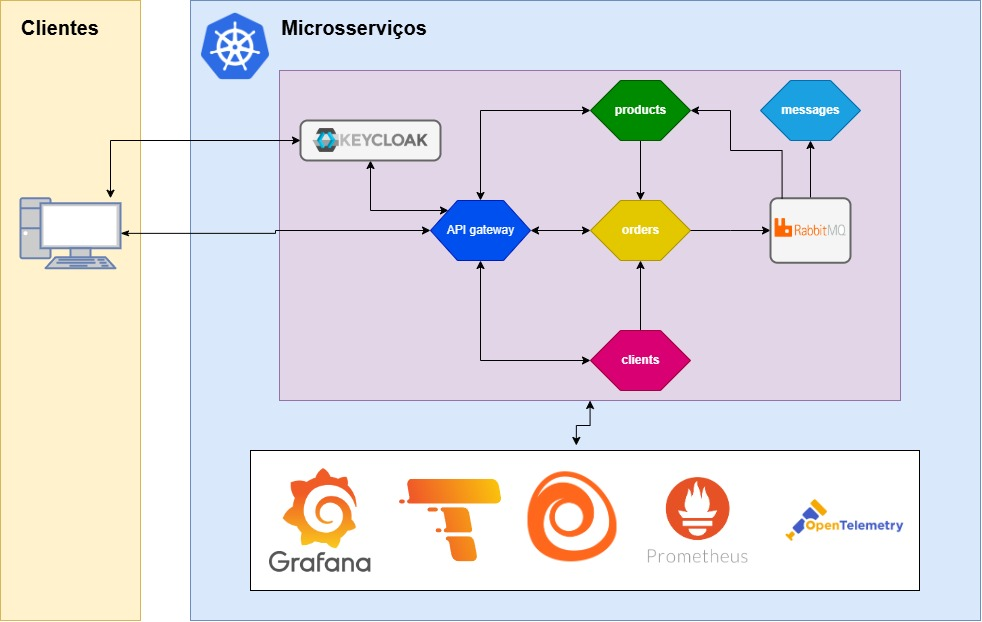
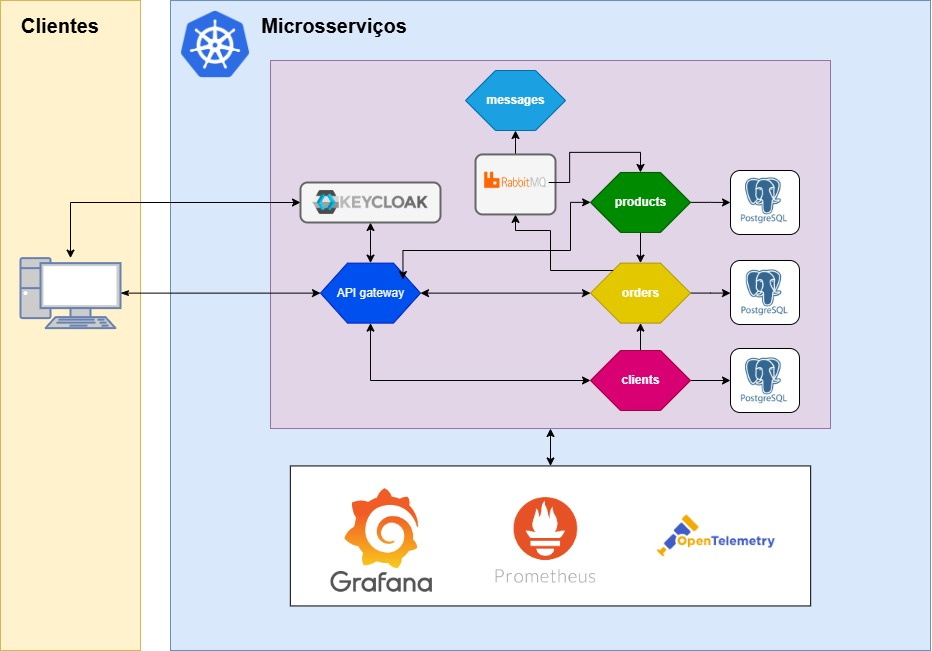
Documentation and architecture diagram updated (#1)

Changed region(s): [[0.0, 0.0, 0.9957, 1.0]]

diff --git a/README.md b/README.md
@@ -1,7 +1,33 @@
 # Projeto iecommerce
 
-Projeto pessoal de ecommerce, sendo um sistema backend composto por microsserviços utilizados para a gestão de produtos, pedidos e clientes.
+Projeto pessoal de e-commerce backend, utilizando arquitetura de microsserviços para a gestão de produtos, pedidos e clientes. O sistema será construído com Java 21, Spring Boot e Spring Cloud, com persistência de dados com PostgreSQL, mensageria com RabbitMQ e autenticação e autorização com Keycloak. A infraestrutura contará com monitoramento completo via OpenTelemetry e ferramentas como Prometheus e Grafana, além de conteinerização com Docker e orquestração de contêineres com Kubernetes.
 
 ## Diagrama Arquitetural
 
 ![diagrama-arquitetural](./docs/img/diagrama-arquitetural.jpg)
+
+## Tecnologias utilizadas
+
+- **Java 21** — Linguagem principal utilizada para todos os microsserviços.
+- **Spring Boot 3.4.5** — Framework backend utilizado.
+- **Spring Cloud** — Comunicação e integração entre microsserviços.
+- **PostgreSQL** — Banco de dados relacional para armazenamento dos dados dos serviços products, orders e clients.
+- **RabbitMQ** — Mensageria assíncrona, funcionará como broker de mensagens. O serviço orders enviará informações de um pedido que servirão para gerar mensagens e emails de confimação e também para reduzir o estoque do serviço products.  
+- **Spring Cloud Function** - Exposição de funções via API, que servirão para enviar mensagens ou notificar o serviço products sobre a dedução de um item de estoque.
+- **Spring Cloud Stream** — Integração com a mensageria.
+- **Keycloak** - O Keycloak será utilizado para autenticação e autorização, interagindo com o serviço de gateway e o serviço de clients do sistema.
+- **Junit** - Testes unitários para o serviços.
+- **OpenTelemetry + Prometheus + Grafana + Loki + Tempo + Alloy** — Observabilidade e monitoramento dos microsserviços, realizando o armazenamento e integração de Logs, rastreamento distribuído, visualização de métricas e controle de performance.
+- **Docker** - Conteinerização das aplicações para realização de testes com Docker compose e para produção com kubernetes.
+- **Kubernetes** - Orquestração de contêineres para a produção e testes.
+
+## Executando o projeto
+
+## Testes
+
+## Contato
+
+Para sugestões, dúvidas ou feedbacks, entre em contato:
+
+- [LinkedIn](https://www.linkedin.com/in/icaro-augusto-rodrigues-de-freitas-4813ba92/)
+- Email: icaro_freitas2014@outlook.com
